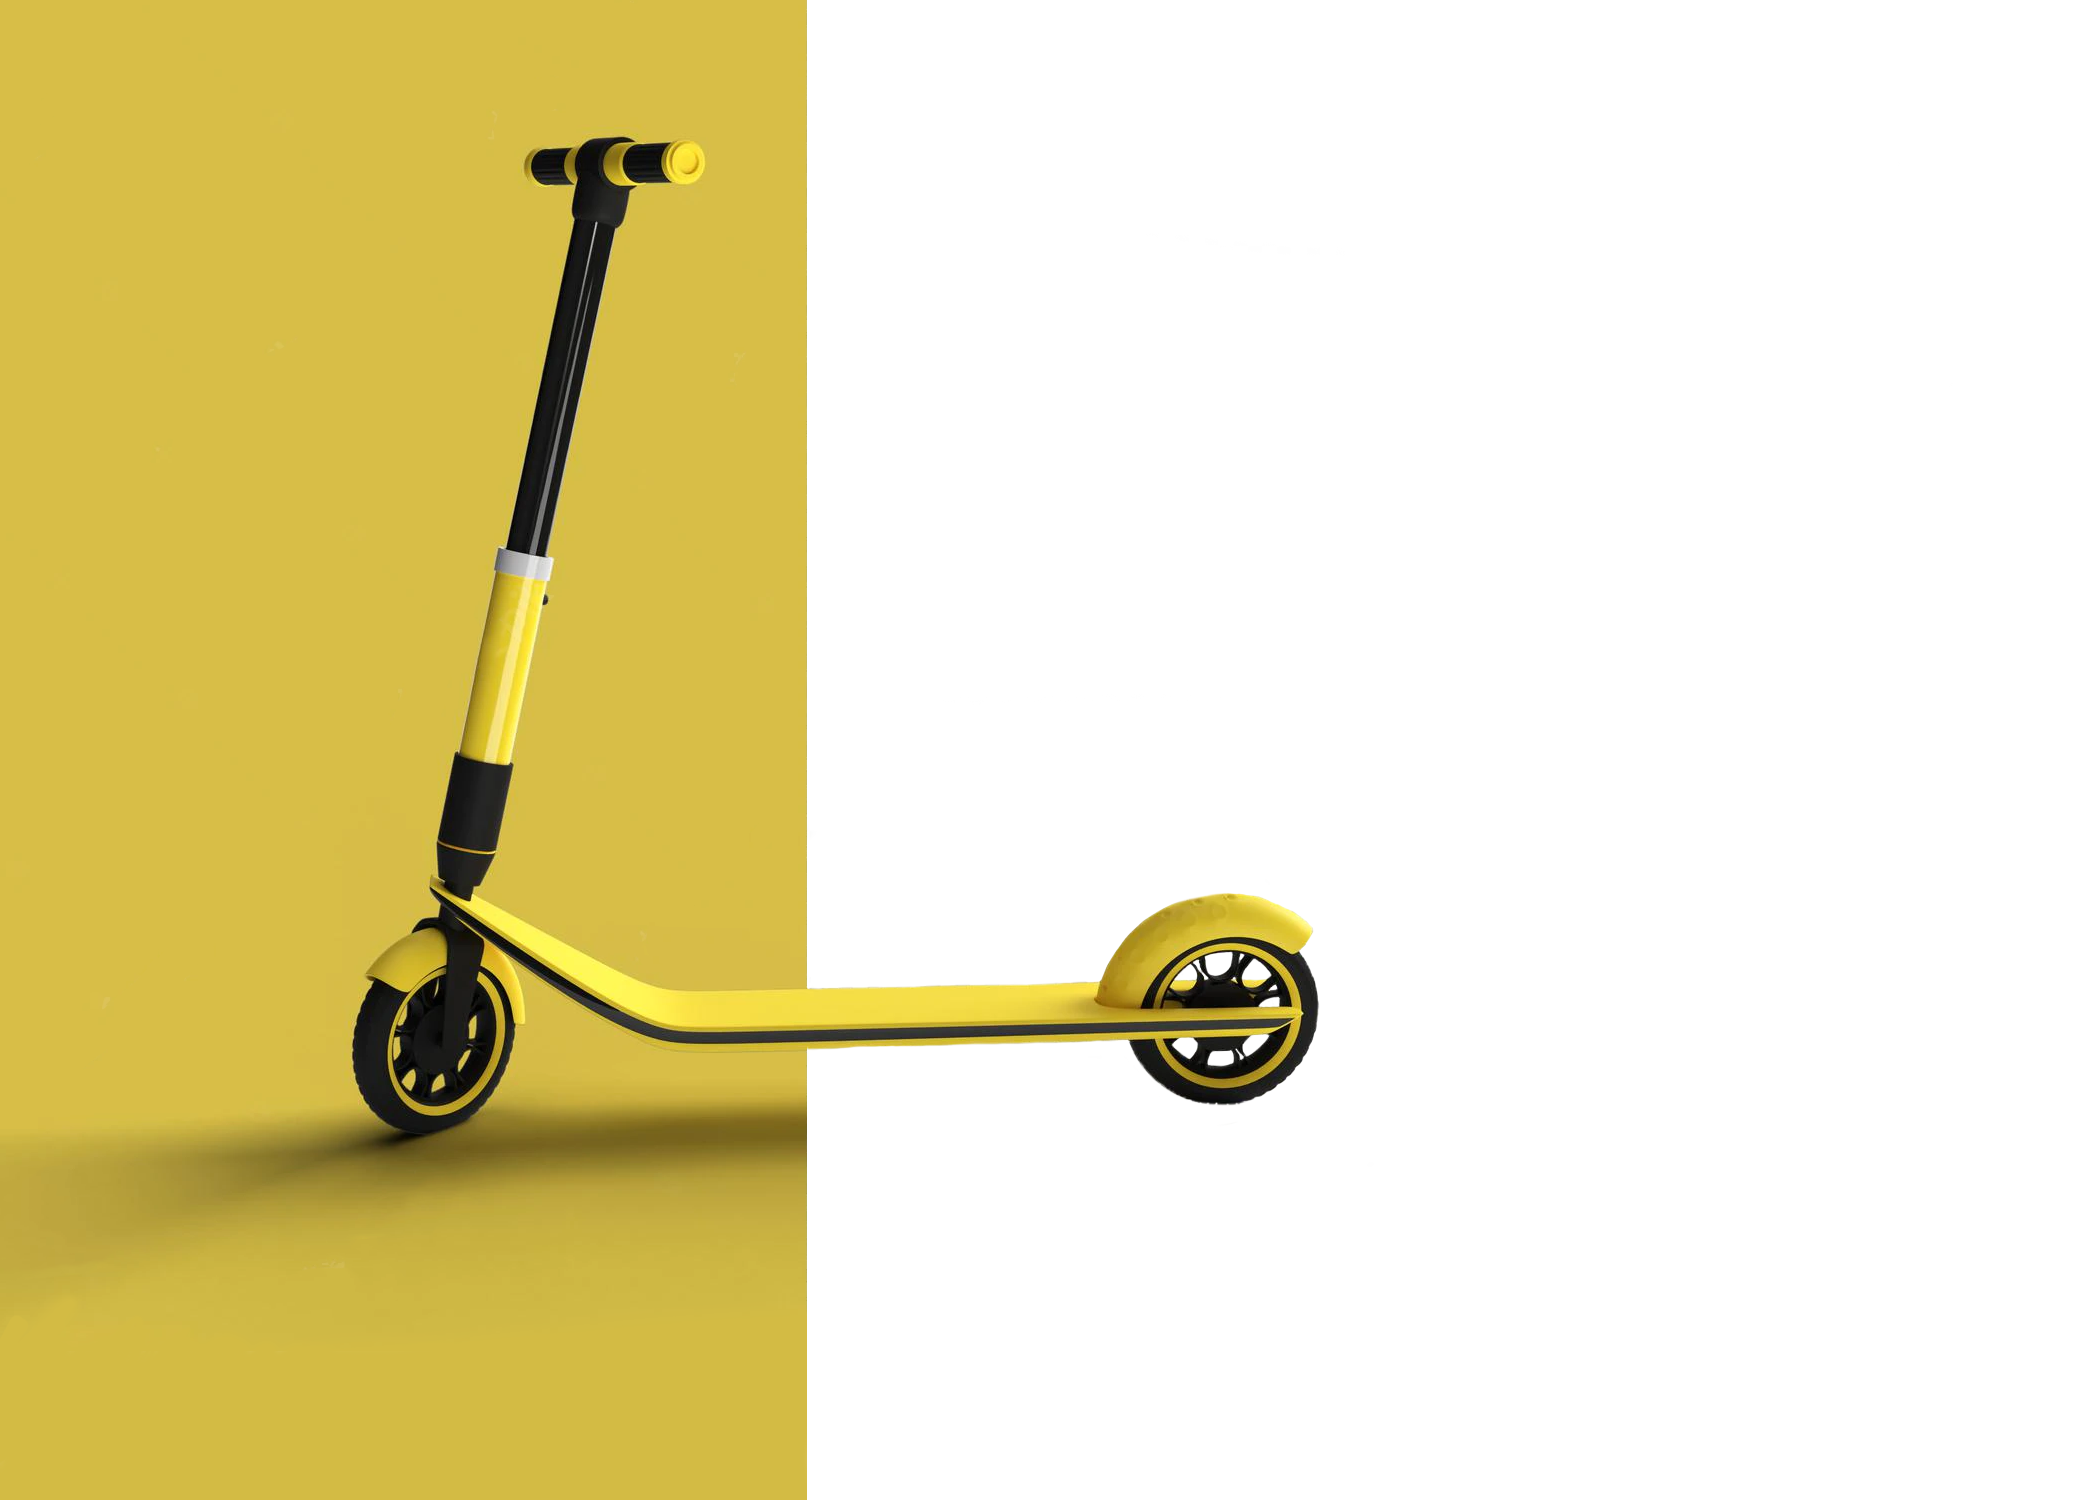
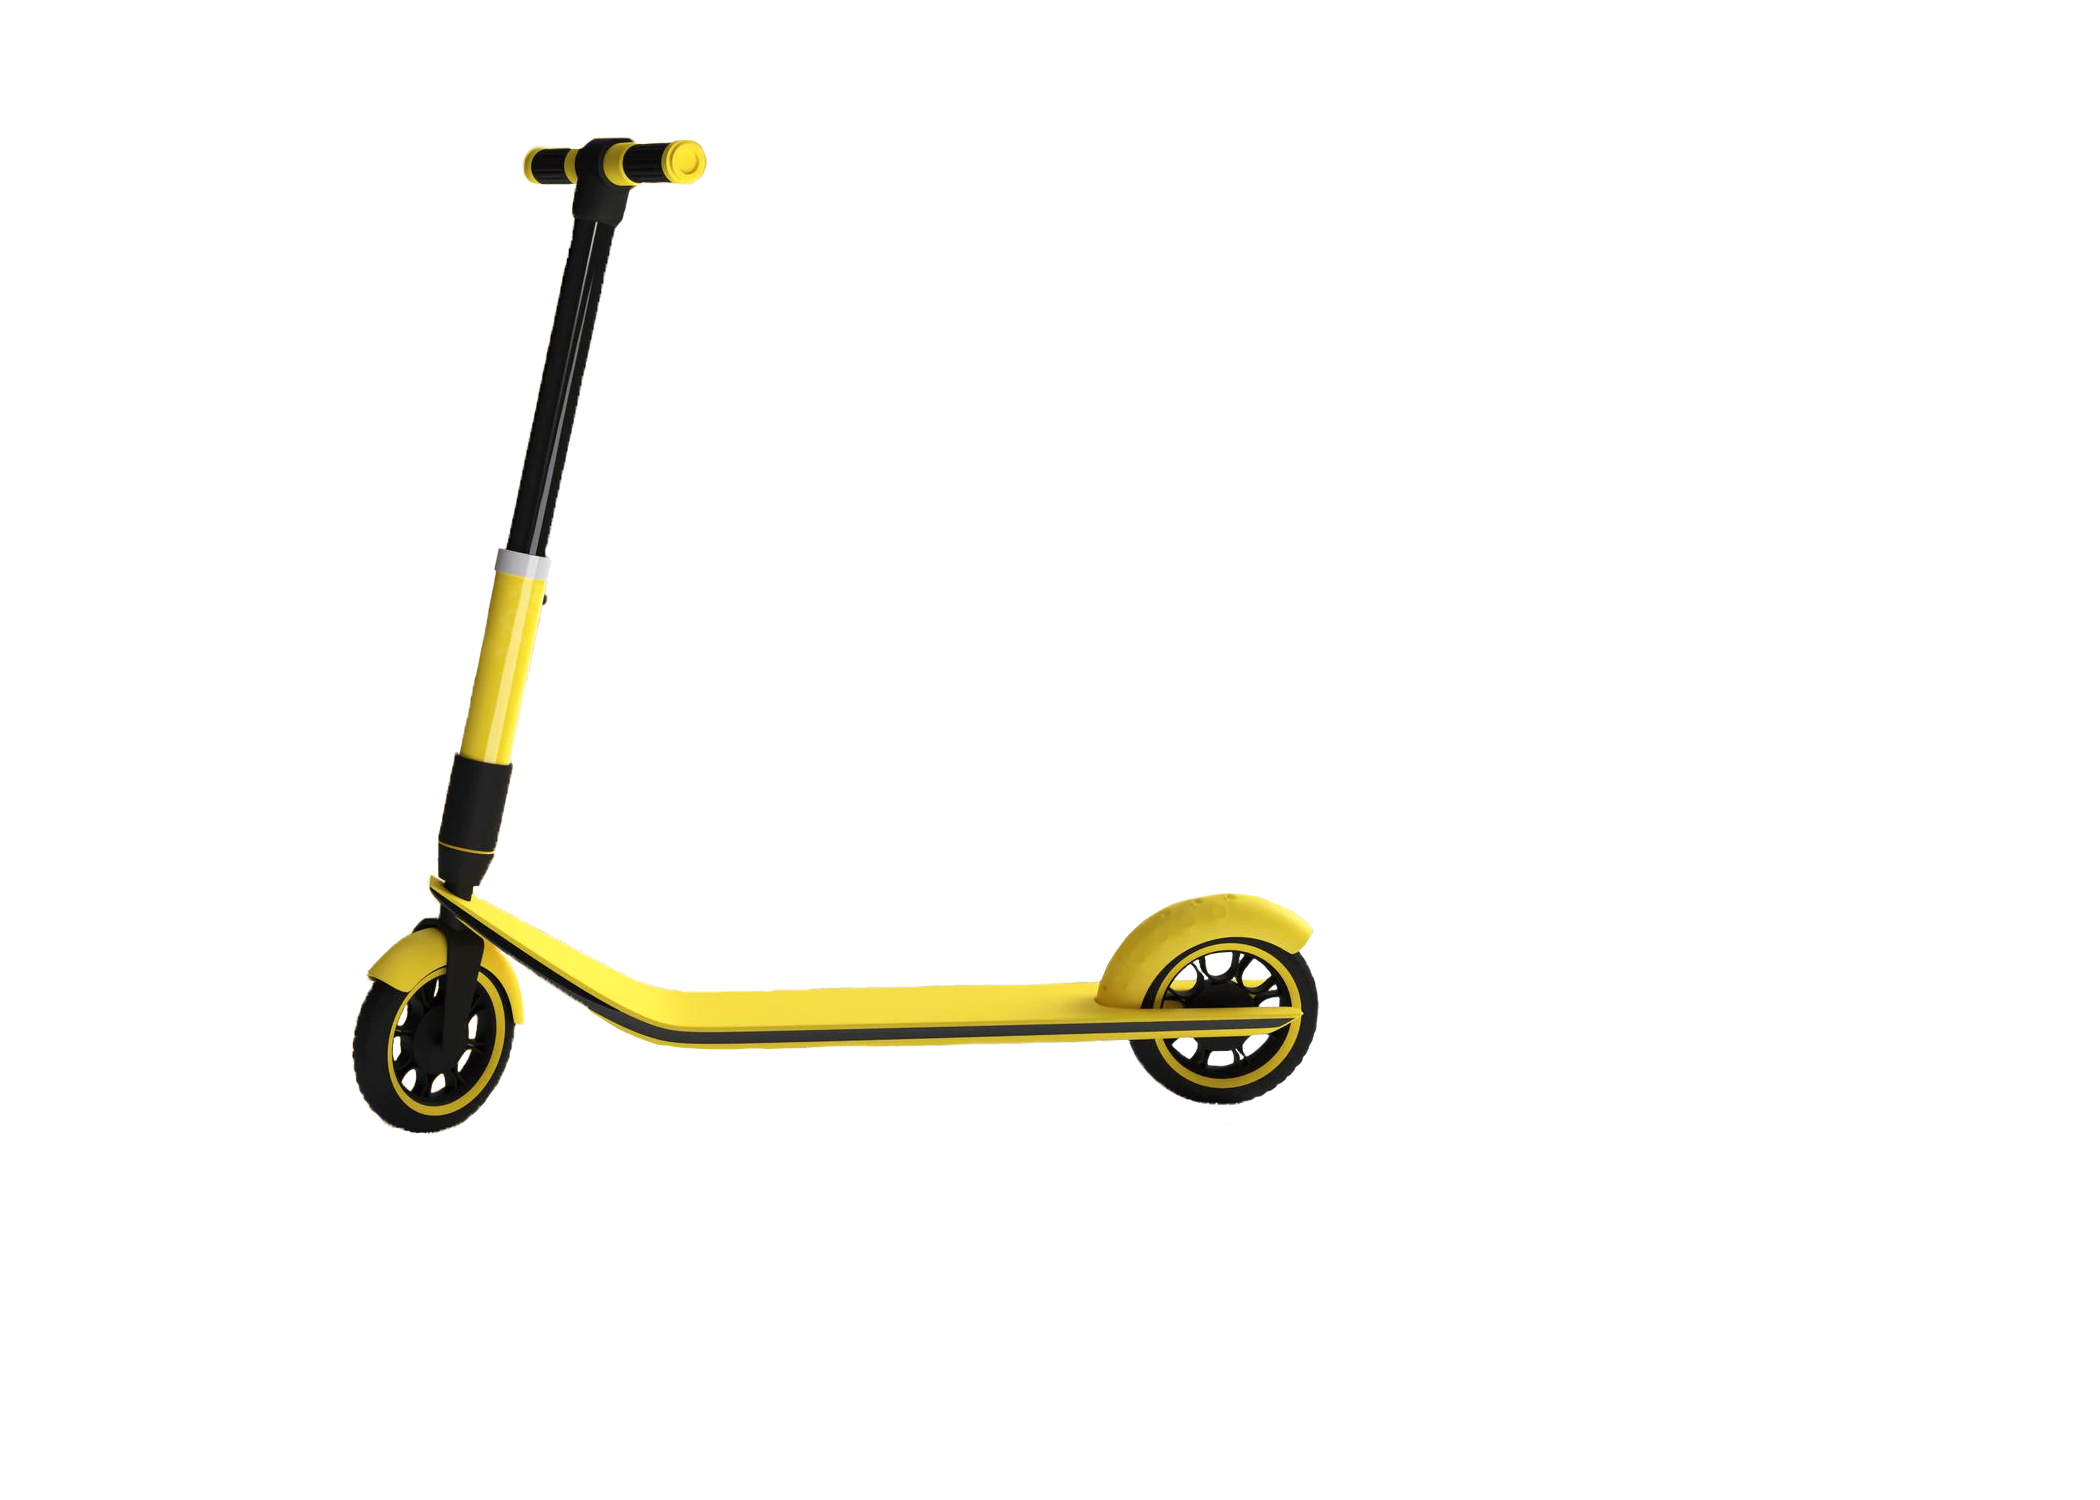
img

diff --git a/src/App.js b/src/App.js
@@ -6,6 +6,7 @@ import { ScooterList } from "./Components/ScooterList";
 import { readData } from "./Utils/database";
 import { EditScooter } from "./Components/EditScooter";
 import { ScootersStatistics } from "./Components/Stats";
+import scooter from './Assets/scooter.png'
 
 function App() {
   const [lastUpdate, setLastUpdate] = useState(Date.now())
@@ -25,7 +26,10 @@ function App() {
       </header>
       <main className="App-main">
           <CreateNewScooter refreshList={setLastUpdate}/>
-          <ScootersStatistics scooters={scooters} />
+          <div className="stats-container">
+            <img src={scooter} className="scooter-img" alt="a" />
+            <ScootersStatistics className="stats" scooters={scooters} />
+          </div>
           <ScooterList refreshList={setLastUpdate} scooters={scooters} setShowModal={setShowModal} />
           <EditScooter refreshList={setLastUpdate} setShowModal={setShowModal} currentScooter={showModal} />
       </main>

diff --git a/src/App.scss b/src/App.scss
@@ -28,6 +28,7 @@
   color: var(--text);
 }
 .App-main {
+  height: 100vh;
   background-color: var(--light-grey);
   color: var(--white);
 }
@@ -41,18 +42,6 @@
   to {
     transform: rotate(360deg);
   }
-}
-.scooter-img {
-  /* background-image: url(./Assets/scooter.png);
-  background-repeat: no-repeat;
-  height: 100vh; */
-  position: relative;
-}
-.test {
-  position: absolute;
-  width: 900px;
-    height: auto;
-    right: 260px;
 }
 .table {
   display: flex;
@@ -81,6 +70,21 @@ table {
 .table td {
   color: var(--white);
 }
+.stats-container {
+  display: flex;
+}
+.stats {
+  position: relative;
+  right: 60px;
+}
+.scooter-img {
+  position: absolute;
+  width: 900px;
+  height: auto;
+  right: 260px;
+}
+
+
 @media(max-width: 500px) {
   .table {
     display: block;

diff --git a/src/Components/ScooterList.jsx b/src/Components/ScooterList.jsx
@@ -1,7 +1,6 @@
 import { useState } from "react";
 import { deleteData } from "../Utils/database";
 import { getLastUseTime } from "../Utils/lastUseTime";
-import scooter from '../Assets/scooter.png'
 
 const sortTypes = {
     byAscId: {
@@ -36,8 +35,7 @@ export function ScooterList (props) {
     const [sortType, setSortType] = useState(sortTypes.byAscId.key)
     sortScooters(props.scooters, sortType);
     return (
-        <div className="scooter-img">
-            <img src={scooter} className="test" alt="a" />
+        <div>
             <div  className="table">
                 <table>
                     <thead>
